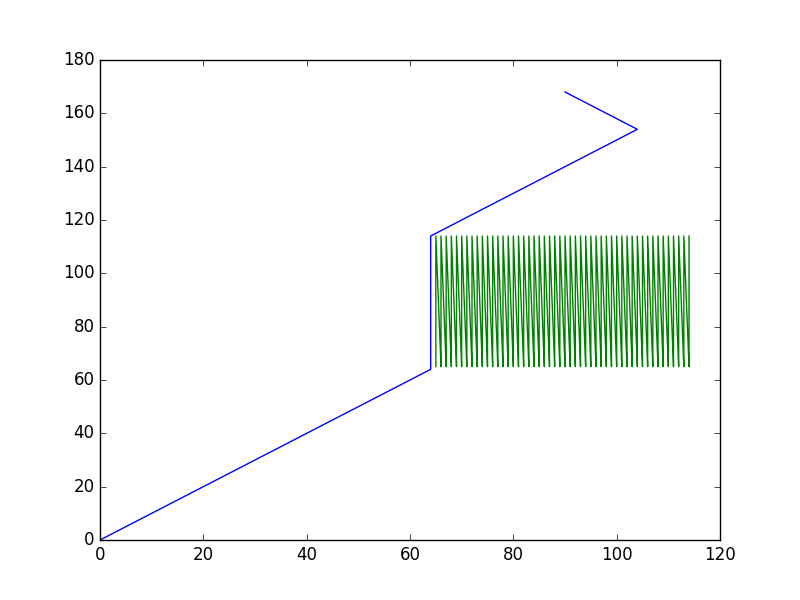
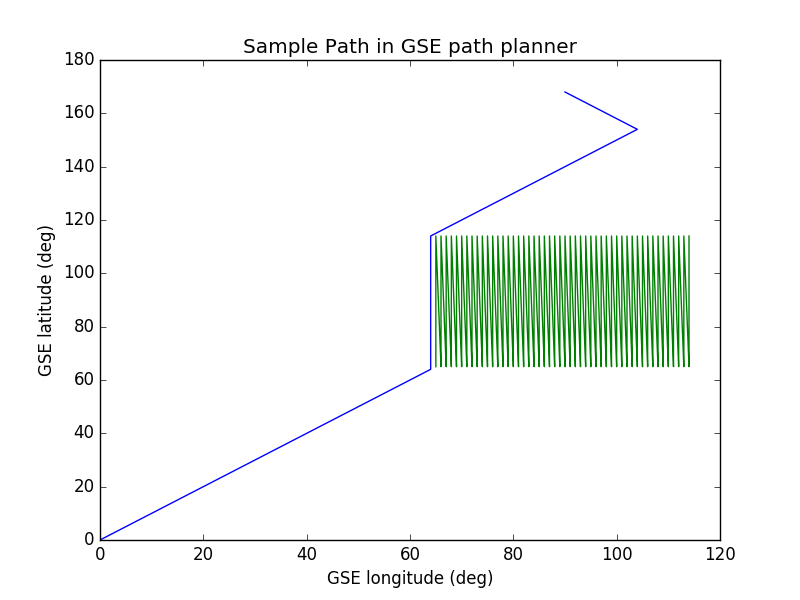
equirectangular projection added

Changed region(s): [[0.2812, 0.06, 0.7188, 0.09], [0.4062, 0.93, 0.625, 0.99], [0.0312, 0.39, 0.0625, 0.63]]

diff --git a/path_planner.py b/path_planner.py
@@ -33,6 +33,8 @@ class GridGraph:
         self.width = width
         self.height = height
         
+        # cost for dijkstra/a*
+        self.weights = {} 
         # this also works with range argument (-maxx, maxx), (-maxy,maxy) etc.
         for x in range(self.width):
             for y in range(self.height):
@@ -43,6 +45,10 @@ class GridGraph:
         self.obstacles = []
         self.obstacles = self.getObstacles()
         print("self.obstacles", self.obstacles)
+        
+        # trying to apply uniform cost 1 to the grid
+        self.weights = {w: 1 for w in self.all_nodes}
+        self.weights = {w: 50 for w in self.obstacles}
     def in_bounds(self, id):
         (x,y) = id
         return 0<=x < self.width and 0 <= y < self.height
@@ -74,9 +80,12 @@ class GridGraph:
 
     def reconstruct_path(self, came_from, start, goal):
         current = goal
+        print("current", current)
         path = [current]
+        print("path", current)
         while current != start:
             current = came_from[current]
+            print("current", current)
             path.append(current)
         path.append(start) # optional
         path.reverse() # optional
@@ -105,7 +114,29 @@ class GridGraph:
         pass
     def a_star_search(self, start, goal):
         # i'll add this in later if needed
-        pass
+
+        frontier = PriorityQueue()
+        frontier.put(start, 0)
+        came_from = {}
+        cost_so_far = {}
+        came_from[start] = None
+        cost_so_far[start] = 0
+        
+        while not frontier.empty():
+            current = frontier.get()
+            
+            if current == goal:
+                break
+            
+            for next in self.neighbors2(current):
+                new_cost = cost_so_far[current] + self.cost(current, next)
+                if next not in cost_so_far or new_cost < cost_so_far[next]:
+                    cost_so_far[next] = new_cost
+                    priority = new_cost + heuristic(goal, next)
+                    frontier.put(next, priority)
+                    came_from[next] = current
+            
+            return came_from, cost_so_far
     
     def sunLocation(threshold):
         # the idea is that this defines an angular position of the sun. 
@@ -323,6 +354,15 @@ class GridGraph:
             for x in range(self.max_x):
                 print("#")
             print("\n")
+    
+    def heuristic(a, b):
+        # implements the manhattan distance
+        (x1, y1) = a
+        (x2, y2) = b
+        return abs(x1 - x2) + abs(y1 - y2)
+
+    def cost(self, from_node, to_node):
+        return self.weights.get(to_node,1)
 
 
 if __name__ == "__main__":
@@ -336,22 +376,27 @@ if __name__ == "__main__":
     s = (0,0)
     # e = (195,95) 
     e = g.simpleGoalRegion()
+    print("goal region", e)
     parents = g.breadth_first_search(s,e)
+    # parents1, cost = g.a_star_search(s,e)
     # draw_grid(g, width=3, point_to=parents, start=s, goal=e)
     path = g.reconstruct_path(parents, s, e)
     draw_grid(g, width=2, path=reconstruct_path(parents, s, e))
-    print("PATH", path)
+    # print("PATH", path)
     # print("X equatls toooooo", x)
     x = [path[i][0] for i in range(0,len(path))]
     y = [path[i][1] for i in range(0,len(path))]
-    print("\n\n\n PATH \n\n\n", x)
+    # print("\n\n\n PATH \n\n\n", x)
     # y = [path[1][:]]
     
     obs = g.getObstacles()
     xo = [obs[i][0] for i in range(0,len(obs))]
     yo = [obs[i][1] for i in range(0,len(obs))]
     plt.plot(x, y)
-    plt.plot(xo,yo)
+    plt.scatter(xo,yo)
+    plt.xlabel('GSE longitude (deg)')
+    plt.ylabel('GSE latitude (deg)')
+    plt.title('Sample Path in GSE path planner')
     plt.show()
     # GridGraph(20,10).testTilt()
 
@@ -359,12 +404,8 @@ if __name__ == "__main__":
     # print(GridGraph().tilt(datetime.datetime(2016, 3, 3)))
     # print(GridGraph().tilt([datetime.datetime(2016, 3, 1) + datetime.timedelta(days=i) for i in range(7)]))
 
-
     # YUMMMMM
     # basically to get my code to work, i'll just make it take in a julian time instead of a datetime object
-
-
-
 
     #GridGraph()
     # some of the unanswered questions here are how do we relate translation in (x,y,z)_GSE

diff --git a/implementation.py b/implementation.py
@@ -102,7 +102,7 @@ diagram4.weights = {loc: 5 for loc in [(3, 4), (3, 5), (4, 1), (4, 2),
                                        (5, 7), (5, 8), (6, 2), (6, 3), 
                                        (6, 4), (6, 5), (6, 6), (6, 7), 
                                        (7, 3), (7, 4), (7, 5)]}
-
+# print("diagram4.weights", diagram4.weights)
 import heapq
 
 class PriorityQueue:
@@ -153,6 +153,7 @@ def reconstruct_path(came_from, start, goal):
     return path
 
 def heuristic(a, b):
+    # implements the manhattan distance
     (x1, y1) = a
     (x2, y2) = b
     return abs(x1 - x2) + abs(y1 - y2)

diff --git a/map.py b/map.py
@@ -1,0 +1,20 @@
+# i'm going to try some random map projections
+
+# lets do equirectangular because I think that it's  
+import numpy as np
+
+def equirectangular():
+    
+    # def constants
+    lam0 = 0
+    rho1 = 0
+    lam = np.linspace(-10,10)
+    rho = np.linspace(-15,15)
+    x = (lam - lam0)*np.cos(rho1)
+    y = rho - rho1
+    return x,y
+
+if __name__ == "__main__":
+    x1,y1 = equirectangular()
+    print("x1",x1)
+    print("y1",y1)
